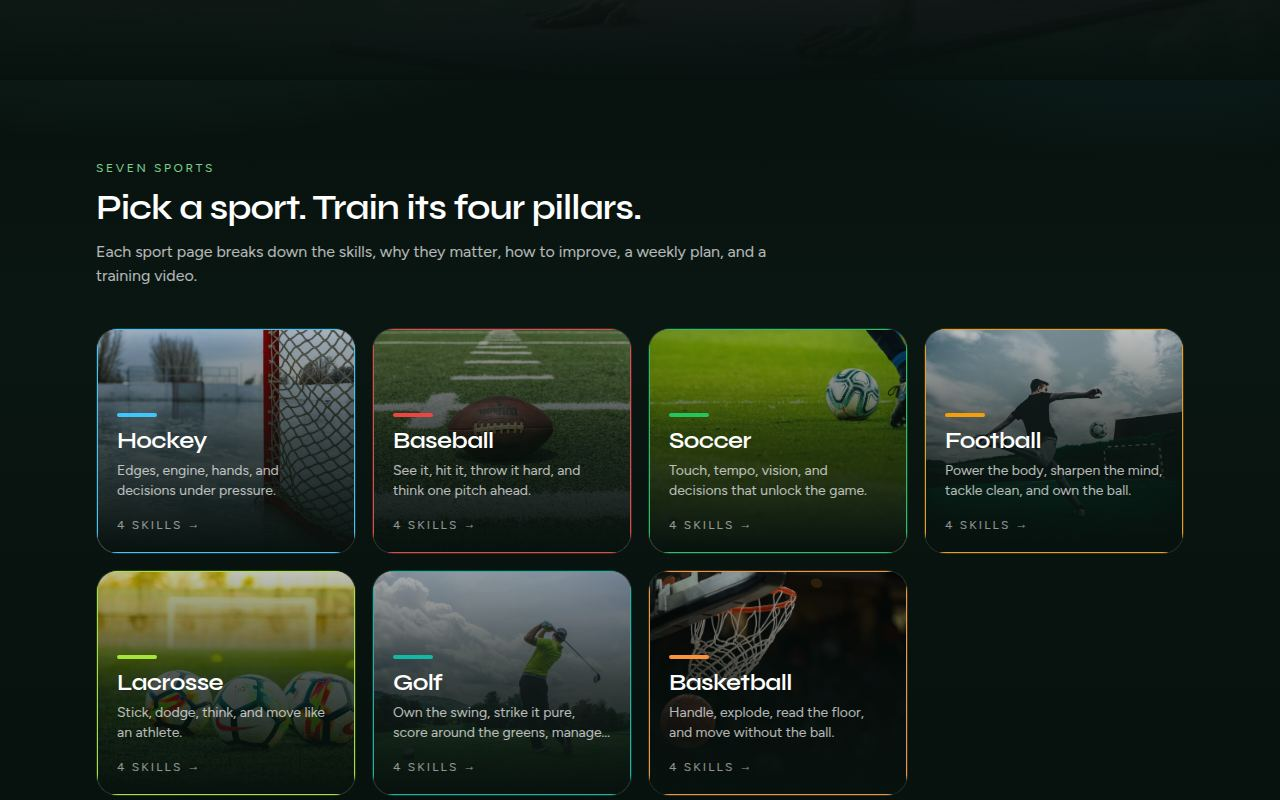
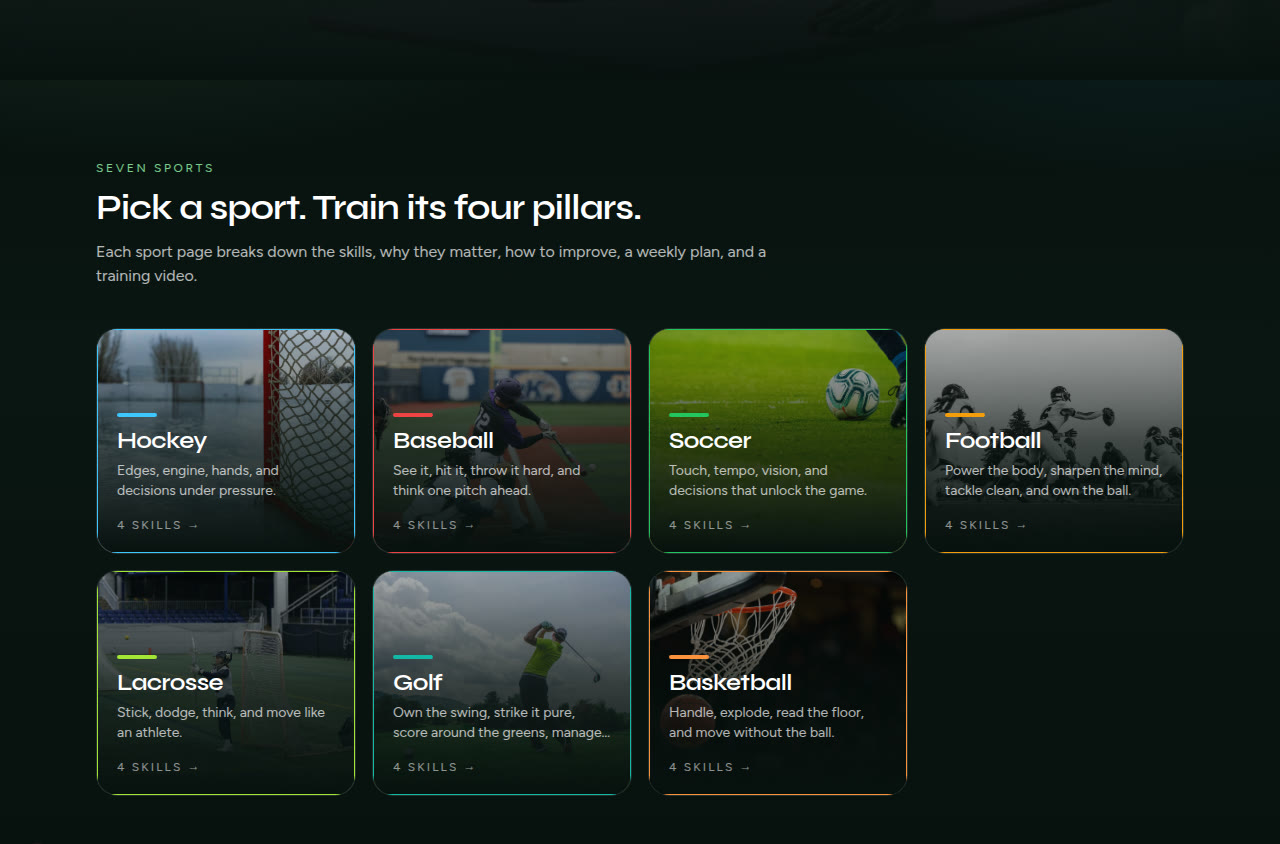
Use a baseball photo on the baseball sport card
The baseball tile was showing a football on a field. It now uses a batter at the plate, and the class walkthrough screenshot matches.

Changed region(s): [[0.0625, 0.1875, 0.9375, 0.9688], [0.6875, 0.7188, 0.7188, 0.7812]]

diff --git a/src/lib/sports-data.ts b/src/lib/sports-data.ts
@@ -136,8 +136,8 @@ export const sports: Sport[] = [
       "Baseball rewards precision. These four skills cover the bat, the arm, the athletic engine, and the mental game that wins counts and innings.",
     accent: "#ef4444",
     image:
-      "https://images.unsplash.com/photo-1566577739112-5180d4bf9390?auto=format&fit=crop&w=1600&q=80",
-    imageAlt: "Baseball batter waiting for a pitch",
+      "https://images.unsplash.com/photo-1529768167801-9173d94c2a42?auto=format&fit=crop&w=1600&q=80",
+    imageAlt: "Baseball batter swinging at a pitch",
     skills: [
       {
         slug: "hitting",
